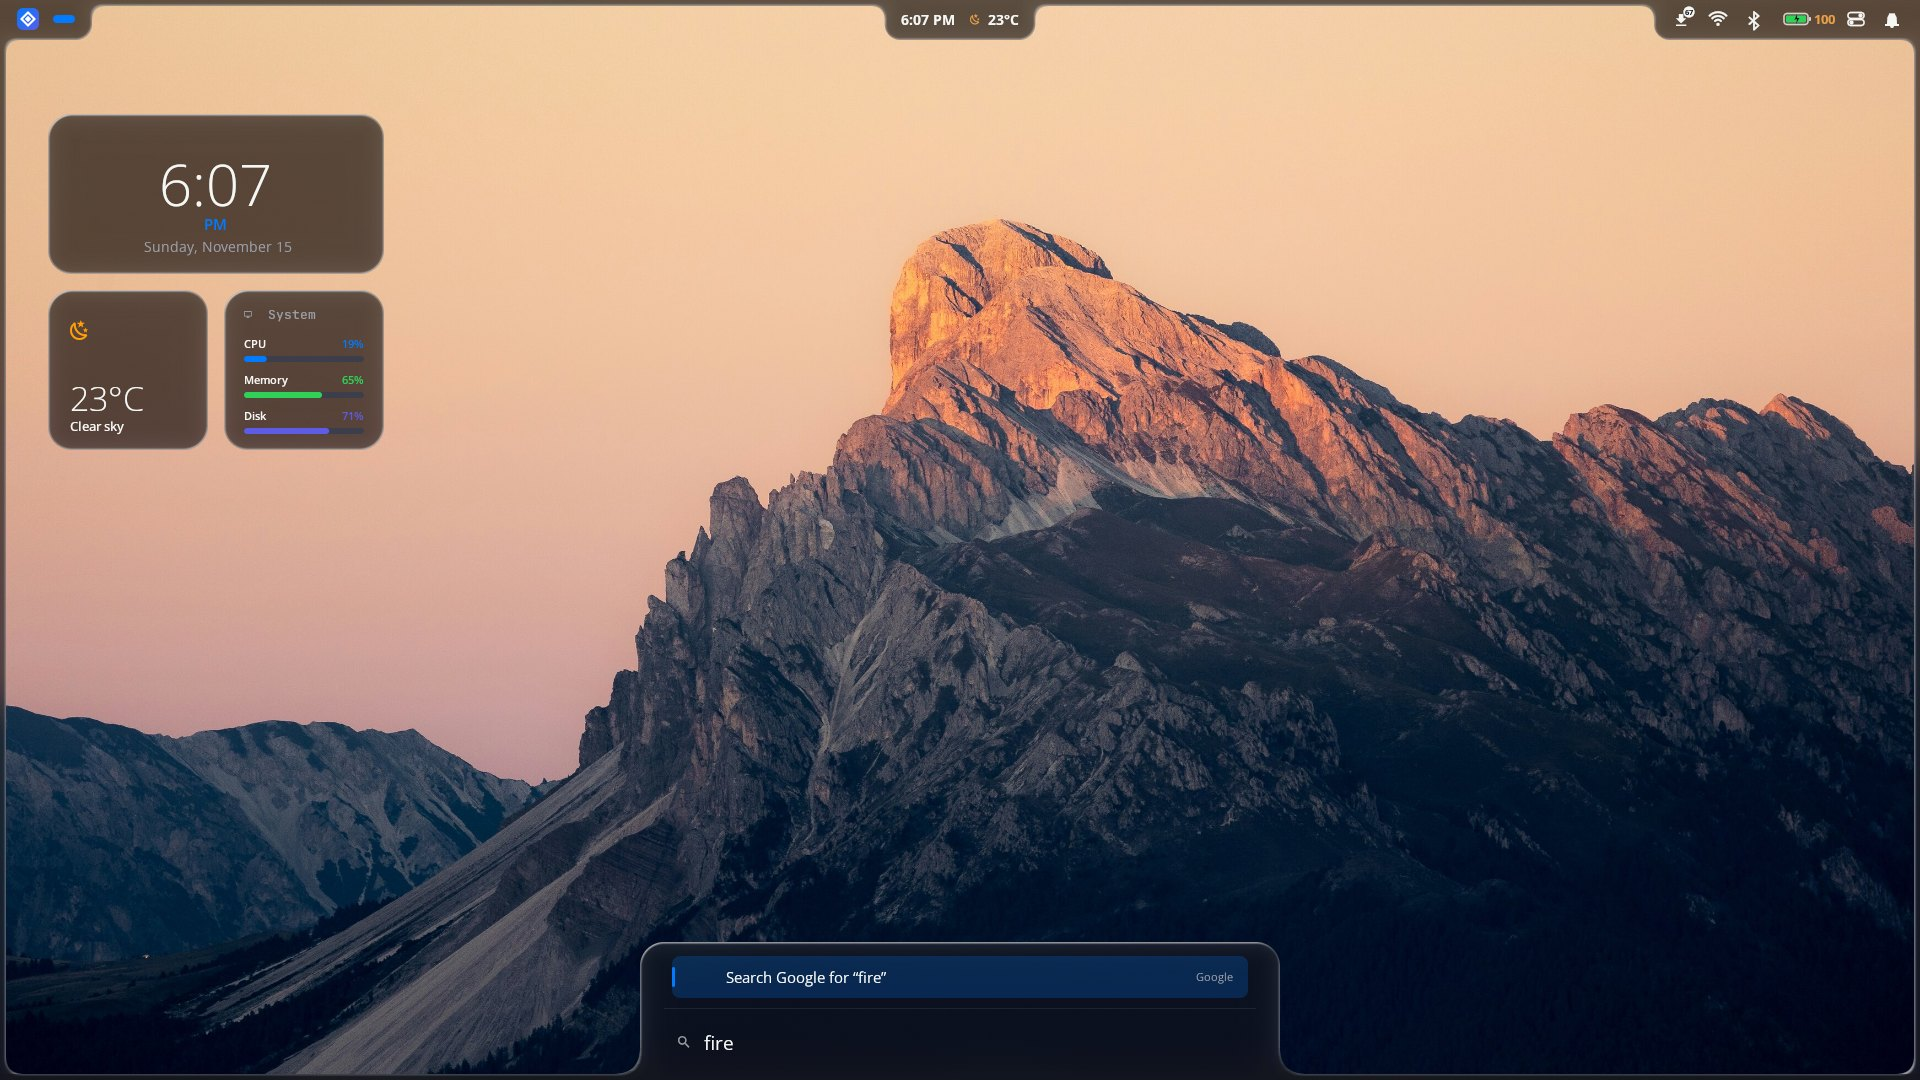
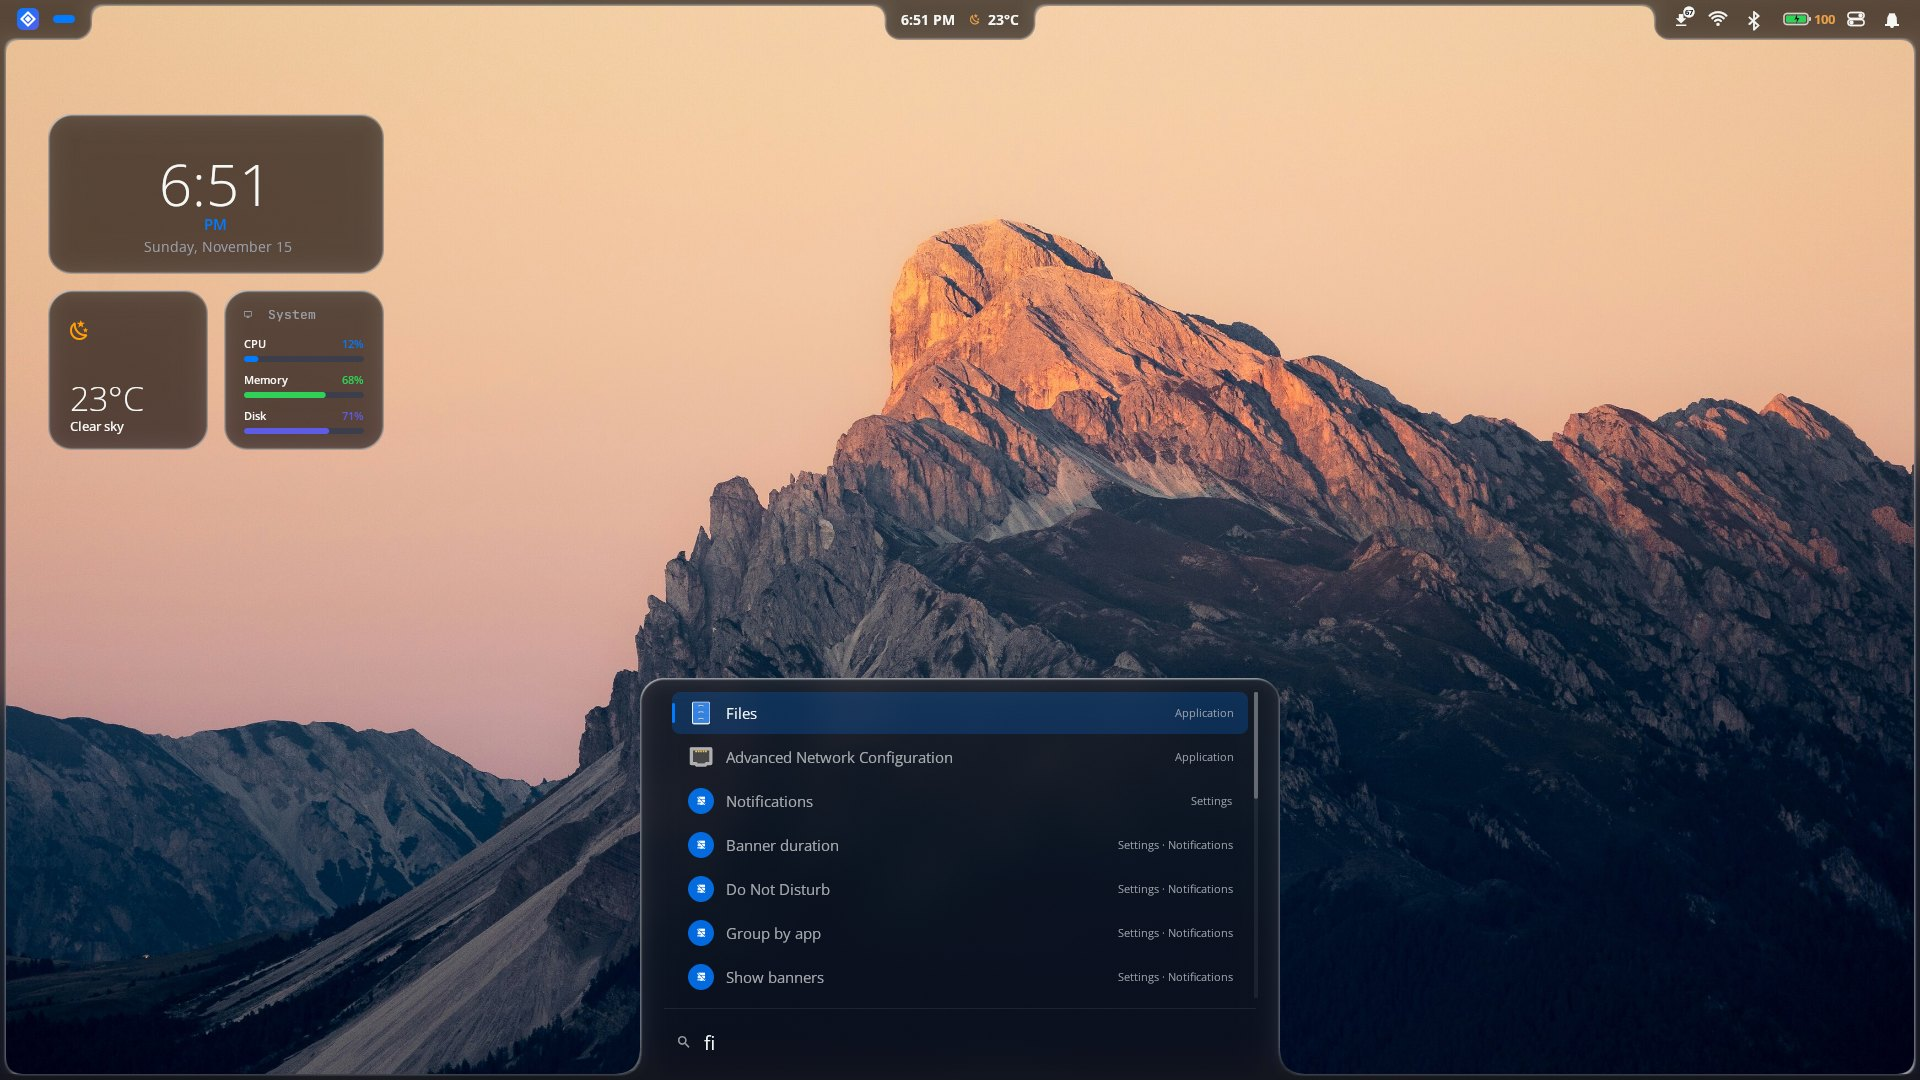
chore: MIT license, one-line installer, release script, light-mode screenshot

Changed region(s): [[0.3125, 0.6111, 0.6875, 0.9472], [0.0938, 0.1528, 0.1562, 0.1833]]

diff --git a/README.md b/README.md
@@ -48,7 +48,8 @@ is named after Apple, and nothing is hard-coded to one machine.
     <td><img src="docs/screenshots/session.jpg" alt="Session menu"><br><sub><b>Session menu</b>: lock, sleep, log out, restart and shut down, all from the keyboard.</sub></td>
   </tr>
   <tr>
-    <td colspan="2" align="center"><img src="docs/screenshots/settings.jpg" alt="Settings" width="50%"><br><sub><b>Settings</b>: appearance, displays, sound, notifications, menu bar and dock, shortcuts, night light and power.</sub></td>
+    <td><img src="docs/screenshots/light.jpg" alt="Light mode"><br><sub><b>Light mode</b>: dark, light or automatic by time of day; the accent can follow the wallpaper.</sub></td>
+    <td><img src="docs/screenshots/settings.jpg" alt="Settings"><br><sub><b>Settings</b>: appearance, displays, sound, notifications, menu bar and dock, shortcuts, night light and power.</sub></td>
   </tr>
 </table>
 
@@ -100,6 +101,8 @@ cd beskar
 ./beskar start        # or log out and back in
 ```
 
+Or in one line: `curl -fsSL https://raw.githubusercontent.com/neerajlovecyber/beskar/master/install.sh | sh` (clones into `~/.local/share/beskar-shell` and runs `./beskar install`; add `-s -- --dry-run` to only list the steps).
+
 You need **niri** (26.04 or newer) and a GPU with a Vulkan driver. `./beskar install` asks before each step
 (`--yes` answers them all, `--dry-run` only lists them, `--no-packages` skips the package step). On Arch it installs everything the
 shell uses, including the fonts, the Bibata cursor and Papirus icons (only if you have not chosen your own), and builds the
@@ -148,3 +151,4 @@ notes are in [`docs/`](docs/) ([UI standards](docs/UI_STANDARDS.md), [components
 - [iNiR](https://github.com/snowarch/iNiR) (GPL-3.0), for the island and frame ideas and the built-in wallpapers;
   artwork credit belongs to the original artists
 - The macOS design language is the inspiration; Beskar is not affiliated with Apple
+- Code: [MIT](LICENSE). The built-in wallpapers keep their original artists' credit

diff --git a/AGENTS.md b/AGENTS.md
@@ -159,3 +159,5 @@ pattern matches the invoking command) and relaunching `bin/pleamar --no-hud --sc
 
 78. **One keyboard focus ring everywhere.** Every panel draws its focus ring with `stroke: focus_stroke; color: ring_c` at 100 % (`ring_c` in `theme.plm` is `ink_c`; `focus_stroke` 2 in `geometry.plm`), never `focus_c` (that is a palette colour used for Do Not Disturb and dark-mode tiles), `accent_c`, or a literal width. `SelectCard` takes `ui_ring_c`. A selection that is not keyboard focus uses `RowFrame`. A ring that belongs to a sector (rule 77) is hidden while another sector has the focus.
 
+79. **Releases and one-line install.** `shell/release.sh vX.Y.Z` runs `verify.sh`, tags master, pushes the tag and creates the GitHub release from the commits since the last tag (versions below 1.0 are pre-releases). `install.sh` at the root is the `curl | sh` entry: it clones into `~/.local/share/beskar-shell` and runs `./beskar install`. The code is MIT (`LICENSE`); the wallpapers are iNiR's and keep their artists' credit.
+
